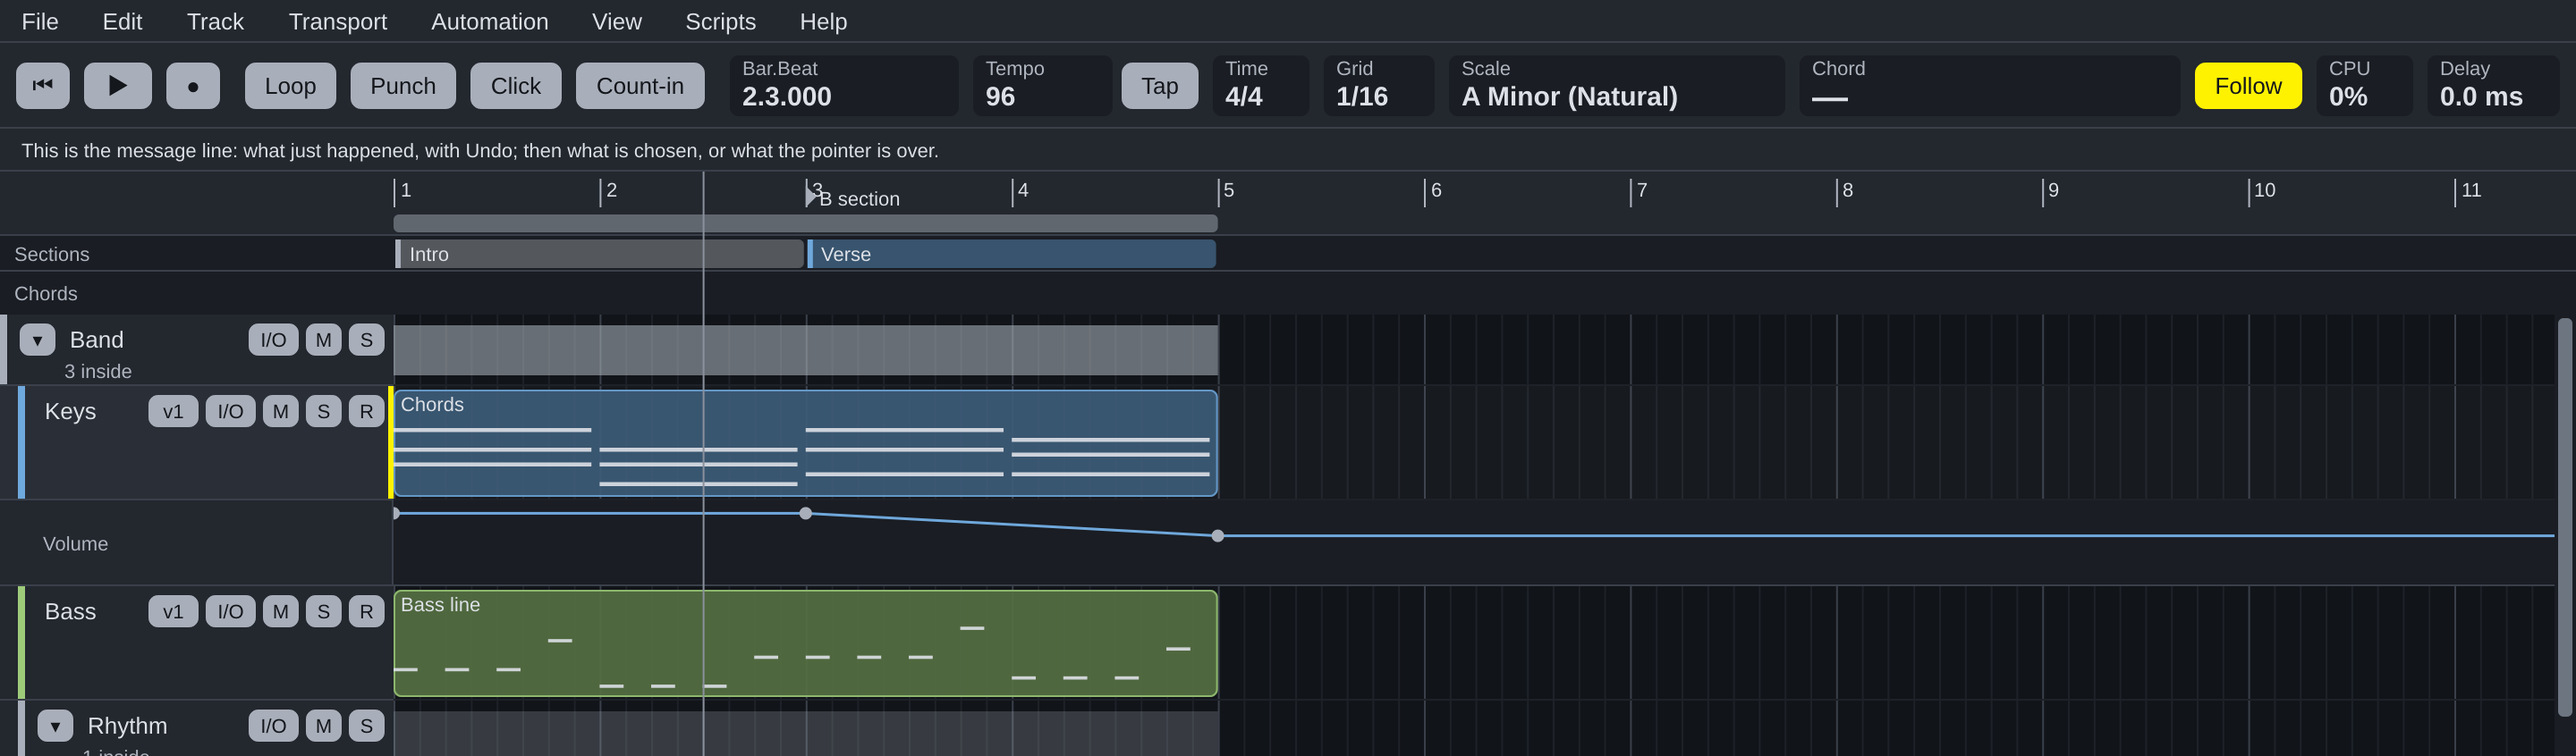
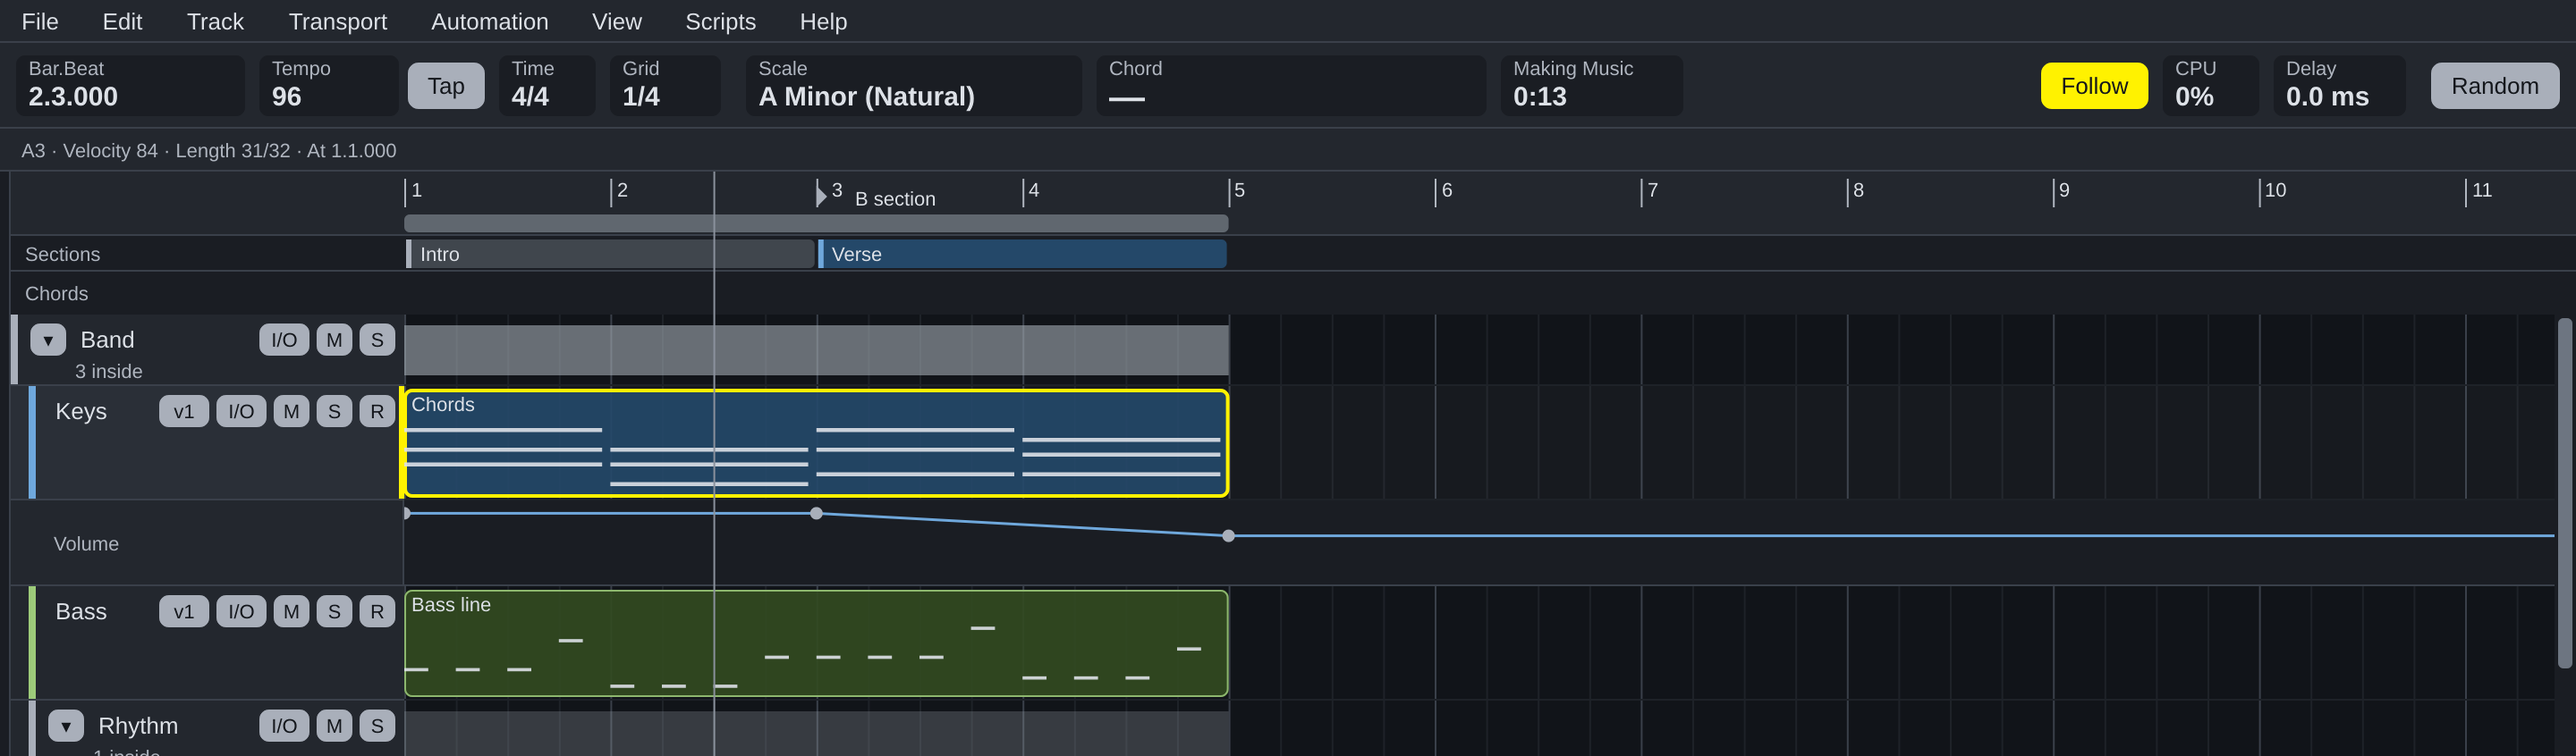
The homepage's five hand-made pictures made by KalibreRender now (the step sequencer playing, through a stand-in sound card); the guide's Steps with a line in it; docs for Random's drums, names and Steps' octave
Claude-Session: https://claude.ai/code/session_01RvNnZjPxPYn8JczTsByi7t

diff --git a/tools/RenderWindow.cpp b/tools/RenderWindow.cpp
@@ -26,6 +26,47 @@
 using namespace juce;
 using namespace kal;
 
+namespace
+{
+// A sound card that's only a clock: the renderer drives it a block at a time,
+// so pictures that need Kalibre playing (the step being played) can be taken.
+struct RenderDevice : public AudioIODevice
+{
+    RenderDevice() : AudioIODevice ("Render", "Render") {}
+    StringArray getOutputChannelNames() override { return { "L", "R" }; }
+    StringArray getInputChannelNames() override { return {}; }
+    Array<double> getAvailableSampleRates() override { return { 48000.0 }; }
+    Array<int> getAvailableBufferSizes() override { return { 512 }; }
+    int getDefaultBufferSize() override { return 512; }
+    String open (const BigInteger&, const BigInteger&, double, int) override { return {}; }
+    void close() override {}
+    bool isOpen() override { return true; }
+    void start (AudioIODeviceCallback*) override {}
+    void stop() override {}
+    bool isPlaying() override { return true; }
+    String getLastError() override { return {}; }
+    int getCurrentBufferSizeSamples() override { return 512; }
+    double getCurrentSampleRate() override { return 48000.0; }
+    int getCurrentBitDepth() override { return 32; }
+    BigInteger getActiveOutputChannels() const override { return 3; }
+    BigInteger getActiveInputChannels() const override { return 0; }
+    int getOutputLatencyInSamples() override { return 0; }
+    int getInputLatencyInSamples() override { return 0; }
+};
+
+void playFor (Engine& e, double seconds)
+{
+    const int n = 512, blocks = (int) std::ceil (seconds * 48000 / n);
+    AudioBuffer<float> block (2, n);
+    for (int b = 0; b < blocks; ++b)
+    {
+        block.clear();
+        float* outs[] { block.getWritePointer (0), block.getWritePointer (1) };
+        e.audioDeviceIOCallbackWithContext (nullptr, 0, outs, 2, n, {});
+    }
+}
+} // namespace
+
 int main (int argc, char** argv)
 {
     ScopedJuceInitialiser_GUI gui;
@@ -139,6 +180,19 @@ int main (int argc, char** argv)
             png.writeImageToStream (image, s);
             std::printf ("wrote %s\n", f.getFullPathName().toRawUTF8());
         };
+        // A part of the window, for the homepage's smaller pictures.
+        auto shootArea = [&] (const String& name, Rectangle<int> area)
+        {
+            window.resized();
+            MessageManager::getInstance()->runDispatchLoopUntil (50);
+            auto image = window.createComponentSnapshot (area.getIntersection (window.getLocalBounds()), true, scale);
+            PNGImageFormat png;
+            const auto f = out.getChildFile (name + ".png");
+            f.deleteFile();
+            FileOutputStream s (f);
+            png.writeImageToStream (image, s);
+            std::printf ("wrote %s\n", f.getFullPathName().toRawUTF8());
+        };
         c.zoneTab = ZoneTab::Devices;
         c.viewChanged();
         shoot ("1-devices");
@@ -176,14 +230,87 @@ int main (int argc, char** argv)
         }
         window.setTheme (0);
         shoot ("2-piano-roll");
-        c.selectClip (c.project.tracks[4].clips().front().id);
+        // The message line saying what's chosen: a note in the Keys' chords.
+        c.dismiss();
+        if (const auto* kc = c.project.clip (keysClip); kc && ! kc->midi.notes.empty()) c.selectedNotes = { kc->midi.notes.front().id };
+        c.viewChanged();
+        // The homepage's: the top bar and the message line, with each track's I/O; the
+        // top bar's timer; the arm button four ways.
+        shootArea ("53-top-bar-and-io", { 0, 0, window.getWidth(), 423 });
+        shootArea ("54-top-bar-timer", { 0, 0, window.getWidth(), 120 });
+        {
+            const ArmFor ways[] { ArmFor::Audio, ArmFor::Midi, ArmFor::Both, ArmFor::MidiInput };
+            std::vector<Id> armed;
+            for (auto& t : c.project.tracks)
+                if (t.holdsClips() && armed.size() < 4) armed.push_back (t.id);
+            for (size_t i = 0; i < armed.size(); ++i) { auto* t = c.project.track (armed[i]); t->armed = true; t->armFor = ways[i]; }
+            c.refresh();
+            window.resized();
+            MessageManager::getInstance()->runDispatchLoopUntil (50);
+            Rectangle<int> headers;
+            std::function<void (Component&)> find = [&] (Component& comp)
+            {
+                for (auto* ch : comp.getChildren())
+                {
+                    if (auto* h = dynamic_cast<TrackHeader*> (ch); h && h->isVisible()
+                        && std::find (armed.begin(), armed.end(), h->id) != armed.end())
+                        headers = headers.isEmpty() ? window.getLocalArea (h, h->getLocalBounds()) : headers.getUnion (window.getLocalArea (h, h->getLocalBounds()));
+                    find (*ch);
+                }
+            };
+            find (window);
+            if (! headers.isEmpty()) shootArea ("55-arm-four-ways", headers.expanded (4));
+            for (auto id : armed) c.project.track (id)->armed = false;
+            c.refresh();
+        }
+        c.selectedNotes.clear();
+        // The step sequencer's: a bass line written in steps, a bar after the song, on the Bass.
+        Id stepsClip = 0;
+        for (auto& t : c.project.tracks)
+            if (t.name == "Bass")
+            {
+                stepsClip = edit::addMidiClip (c.project, t.id, PPQ * 16, PPQ * 4);
+                const int line[16] { 45, 0, 45, 57, 0, 45, 52, 0, 43, 0, 43, 55, 0, 48, 50, 52 };
+                for (int i = 0; i < 16; ++i)
+                    if (line[i] > 0)
+                    {
+                        Note n;
+                        n.start = (PPQ / 4) * i;
+                        n.length = PPQ / 8;
+                        n.pitch = line[i];
+                        n.velocity = 70 + (i % 4 == 0 ? 40 : 0);
+                        n.from = NoteFrom::Steps;
+                        edit::addNote (c.project, stepsClip, n);
+                    }
+                c.refresh();
+            }
+        const Id drumsClip = c.project.tracks[4].clips().front().id;
         for (auto kind : { EditorKind::Drums, EditorKind::Steps, EditorKind::Euclid })
         {
+            c.selectClip (kind == EditorKind::Steps && stepsClip ? stepsClip : drumsClip);
             c.editor = kind;
             c.zoneTab = ZoneTab::Editor;
             c.viewChanged();
             shoot (kind == EditorKind::Drums ? "3-drums" : kind == EditorKind::Steps ? "4-steps" : "5-euclidean");
+            if (kind == EditorKind::Steps)
+            {
+                // Playing: the step being played lit, as the homepage shows it.
+                RenderDevice device;
+                c.engine.audioDeviceAboutToStart (&device);
+                MessageManager::getInstance()->runDispatchLoopUntil (20);
+                c.refresh();
+                c.cursor = c.project.clip (c.selectedClip)->start;
+                c.play();
+                playFor (c.engine, 1.2);
+                window.repaint();
+                shoot ("56-steps-playing");
+                c.stop();
+                c.engine.audioDeviceStopped();
+                c.refresh();
+            }
         }
+        // The bass line in steps goes again: the pictures after are of the demo song as it was.
+        if (stepsClip) { edit::removeClips (c.project, { stepsClip }); c.refresh(); }
         c.selectClip (c.project.tracks[5].clips().front().id);
         c.editor = EditorKind::Notation;
         c.viewChanged();

diff --git a/docs/USER-GUIDE.md b/docs/USER-GUIDE.md
@@ -234,7 +234,8 @@ song: try a different arrangement, mix or sound, and switch back and forth.
 ### The Random button
 
 **Shift-click Random** to keep this song and add random tracks to it, in its
-key and at its tempo, as one undo step.
+key and at its tempo, as one undo step. A track it adds never takes a name
+the song already has: beside your **Drums** it's **Drums 2**.
 
 **Random** (also **File > New Random Song**) makes a new song by chance, to
 start from. If the song you have has changes, it asks to save it first.
@@ -247,8 +248,11 @@ Then:
 - **A random instrument on each**: your scanned plug-ins (all of them but those
   turned off in the Plug-in Manager, and ones that measure rather than sound:
   analysers, meters, tuners), Kalibre Synth, Trombolese,
-  Reese Basser, or Kalibre Sampler playing one of your sounds. Drums go to an
-  instrument that plays drums when you have one (by its name).
+  Reese Basser, or Kalibre Sampler playing one of your sounds. The drums are
+  **Kalibre Drums**, each pad given a drum hit of its kind from your Sounds
+  folders (a kick for the kick, a snare for the snare), played by the drum
+  clip; with no drum hits in your folders, they go to an instrument that
+  plays drums (by its name).
 - **Loops from your sounds** (the Sounds tab's folders), now and then: ones
   whose tempo is known, stretched to the song's.
 - **Effects by chance**: none, one or two a track, 8 at most in all, and now
@@ -259,7 +263,7 @@ Then:
 The message line says what it made ("6 tracks at 103 BPM in A Mixolydian, A
 E A D E A"). Press Space to hear it; click Random again for another. Like
 File > New, it's a new song: there's nothing to undo back to (that's why it
-asks to save first).
+asks to save first). Its activity log starts by saying it's a random song.
 
 ![A random song: six tracks, mixed](guide/random-song.png)
 
@@ -694,7 +698,7 @@ One note a step. Height is pitch; the bar inside is velocity.
 | Double-click | Tie it to the next step (one undo step). |
 | Right-click | Turn it off. |
 | **Swing**, **Gate** | Every second step played late; how long each note sounds. |
-| **Random** | A new tune from Good Idea in the song's key. |
+| **Random** | A new tune from Good Idea in the song's key, moved by whole octaves to where the track's other notes are: on a bass, down with the bass. |
 
 ### Euclidean
 

diff --git a/docs/FEATURES.md b/docs/FEATURES.md
@@ -43,6 +43,7 @@ Every feature asked for, then the list of basic DAW features
 | Themes | Yes | View > Themes: eleven, the house colours first, a near-black and a white one among them; every word 7:1 in each, kept for next time; tested (0132) |
 | Plug-in lists in three parts | Yes | Every list of plug-ins to choose from under MIDI Effects, Instruments and Audio Effects, by maker: + Add and its Kalibre menu, offline effects, the Container, Multiband, Stereo Split, X/Y Morph's corners, drum pads; the Plug-in Manager shows one kind at a time; tested (0131) |
 | Kalibre's own devices in every slot | Yes | Every slot that takes a plug-in (drum pads, offline effects, the Container, Multiband, Stereo Split, X/Y Morph's corners) also lists Kalibre's own of its kind under Kalibre: Instruments or Kalibre: Audio Effects, scanned or not; not the ones that hold plug-ins themselves, nor Hardware Insert; tested (0134) |
+| Random's drums and names | Yes | The Random button's and Shift-Random's drums are Kalibre Drums with a hit of each kind from your sounds; Shift-Random's tracks never share a name with the song's (Drums 2); Steps' Random stays in the track's octave; tested (0134 amended) |
 | The full UAT's findings | Yes | Every finding of 23 November's full UAT fixed or answered, each with a test that failed first (0133, 0134; `docs/uat/2026-11-23/`). The ReaImGui tools' speed is still to watch on the Mac |
 | Humanise | Yes | Right-click MIDI clips: velocity up to 10% either way, timing up to 10% of the grid, one undo step; tested (0124) |
 | Multiband device | Yes, to hear on the Mac | 2 to 4 bands (Linkwitz-Riley, phase-aligned), crossovers dragged on a live spectrum, never crossing; up to four plug-ins a band in their own windows; On, Solo, Volume; untouched with nothing in it; delay compensated between bands; tested (0126) |

diff --git a/docs/sessions/2026-11-23.md b/docs/sessions/2026-11-23.md
@@ -142,3 +142,21 @@ headers keep at least 150 points, so a name in a folder isn't cut to "D…",
 and the tempo lane's top value stays inside it. Renders at 75% and 50% in the
 guide. Tested first: the menu's sizes, each laid out with nothing off the
 edge, and the keys' steps.
+
+## 25 November: what was open, answered
+
+The musician's answers: 1 (ReaImGui tools) fine as it is, to watch on the
+Mac; 2, 3, 4 yes; 5 (the UAT's "Not tried here" list) they'll test; 6 bring
+Windows up to date and the docs on both branches.
+
+- Shift-Random's tracks never take a name the song has (Drums 2); the
+  Random button's drums are Kalibre Drums, a hit of each kind from the
+  sounds on its pads, its own steps off. A random song begins its activity
+  log saying so.
+- Steps' Random moves Good Idea's tune by whole octaves to where the track's
+  other notes are (`patterns::octavesToward`).
+- KalibreRender makes the homepage's five hand-made pictures now: the top
+  bar and I/O (a note chosen, so the message line says what), the timer,
+  arming four ways, and the step sequencer playing (through a stand-in sound
+  card it drives); the guide's Steps picture has a bass line in steps.
+- Tests first: 2 core, 2 app.

diff --git a/docs/decisions/0134-the-uats-smaller-findings.md b/docs/decisions/0134-the-uats-smaller-findings.md
@@ -78,3 +78,20 @@ it. "Share Start and Stop" had no tip; it has.
   `notation::shown`.
 - A script tool's editor does nothing off screen; anything that needs a
   tool's frame without a window calls `ToolSession::frame` itself.
+
+## Amended (25 November): the two suggestions, answered yes
+
+- **Shift-Random's tracks** (49): a track it adds never takes a name the song
+  has (Drums 2 beside Drums). Its drums, and the Random button's, are
+  Kalibre Drums when the Sounds folders have drum hits: a kit with a hit of
+  its kind on each pad (`drumkit::randomSamples`), its own steps off, played
+  by the drum clip (`randomsong::Choice::kit`, `Result::drumKits`). With no
+  drum hits it's as before: an instrument that plays drums.
+- **Steps' Random** (18): Good Idea's tune is moved by whole octaves so its
+  middle sits nearest the middle of the track's other notes
+  (`patterns::octavesToward`).
+- The homepage's five hand-made pictures (the top bar and I/O, its timer,
+  arming four ways, the step sequencer playing) are now made by
+  KalibreRender, the last through a stand-in sound card it drives block by
+  block; the guide's Steps picture has a bass line in steps.
+

diff --git a/docs/uat/2026-11-23/README.md b/docs/uat/2026-11-23/README.md
@@ -82,9 +82,12 @@ there was no time left to drive them by hand).
 | 10, 31 | No slot that takes a plug-in offered Kalibre's own devices | Yes: every slot now lists Kalibre's own of its kind (0134) |
 | 36 | Scrolling over the mixer turns the fader or knob under the pointer | Keep it |
 
-Suggestions, not asked: 49 (Shift-Random's track names, and the Sampler
-where Kalibre Drums would do), 18 (Steps' Random ignores the octave the bass
-plays in).
+Two suggestions, asked later and answered yes (0134 amended): 49
+(Shift-Random's tracks now never share a name with the song's, "Drums 2", and
+its drums are Kalibre Drums with a hit of each kind from your sounds) and 18
+(Steps' Random now writes its tune in the octave the track already plays).
+Finding 46 (several ReaImGui tools at once) is to watch on the Mac; the
+UAT's "Not tried here" list is for the musician to try there.
 
 **Fixed later the same day** ([decision 0134](../../decisions/0134-the-uats-smaller-findings.md)), each with a test that failed first:
 

diff --git a/README.md b/README.md
@@ -103,8 +103,9 @@ grow and shrink with it.
   and gate in the Euclidean too): a step can play up to eight times in its
   length, for flams, rolls and ratchets.
 - **Random** at the top right: a whole new song by chance, 4 to 8 tracks
-  with instruments, effects, drums and a tune from Good Idea, chords and a
-  bass from Midi Suggester, and loops from your sounds; **Random** in the
+  with instruments, effects, drums (on Kalibre Drums, with hits from your
+  sounds) and a tune from Good Idea, chords and a bass from Midi Suggester,
+  and loops from your sounds; Shift-click adds tracks to the song you have; **Random** in the
   device rack for devices by chance, and **Random Scale**.
 - **Random** in the drum grid, step sequencer and Euclidean: a new groove,
   tune or set of rhythms every click, made by **Good Idea**'s engine.
